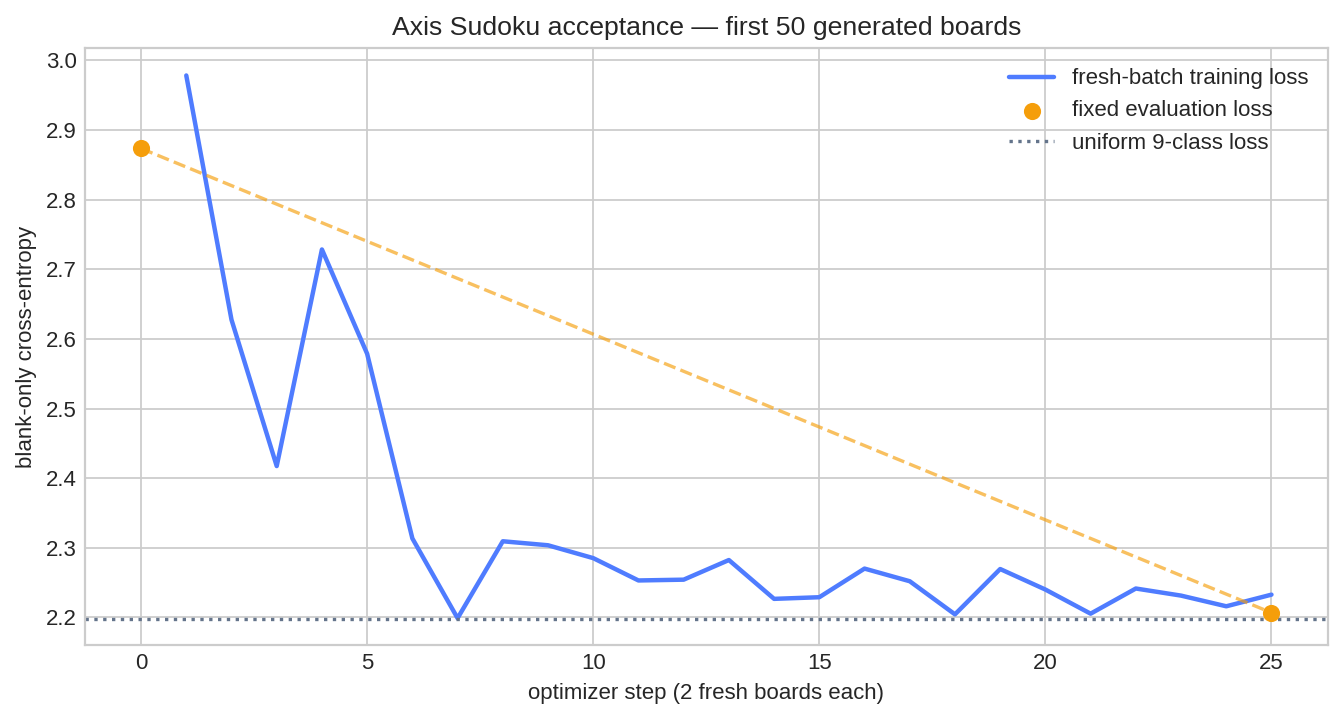
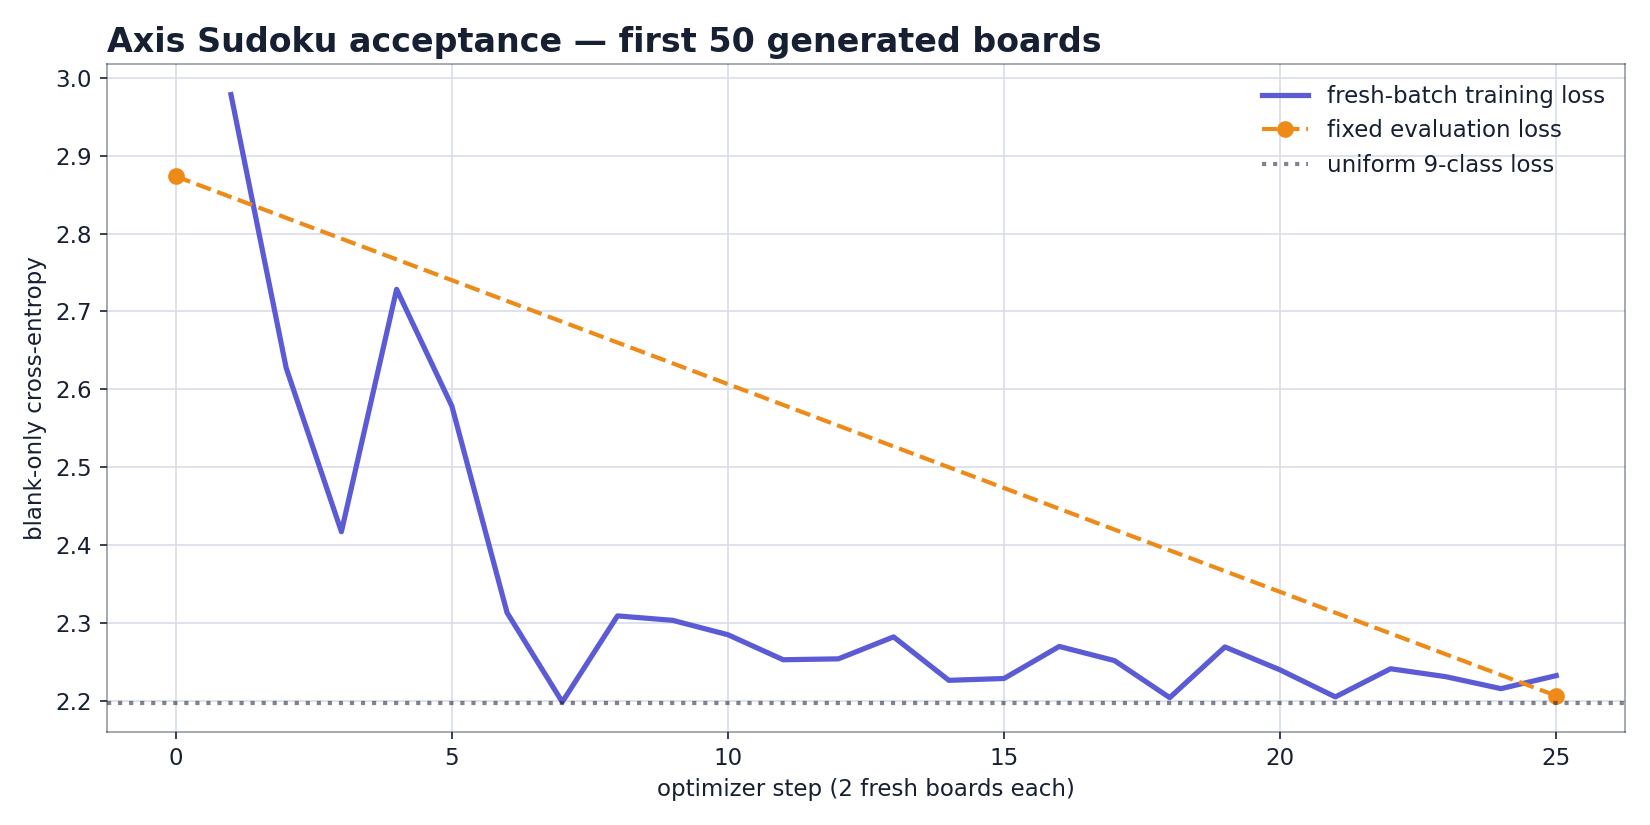
Unify the Sudoku acceptance visuals

diff --git a/scripts/render_readme.py b/scripts/render_readme.py
@@ -1,0 +1,92 @@
+#!/usr/bin/env python3
+"""Render the two measured README figures with one visual language."""
+
+from pathlib import Path
+import re
+
+import matplotlib.pyplot as plt
+
+
+ROOT = Path(__file__).resolve().parents[1]
+INK = "#172033"
+ACCENT = "#5b5bd6"
+ORANGE = "#ee8a18"
+PAPER = "#ffffff"
+GRID = "#d9ddea"
+
+BOARD = [
+    [0, 0, 3, 4, 0, 6, 7, 0, 9],
+    [0, 5, 6, 0, 8, 0, 1, 2, 0],
+    [7, 0, 0, 1, 0, 3, 4, 0, 6],
+    [0, 3, 4, 0, 0, 7, 8, 0, 1],
+    [0, 6, 0, 8, 0, 1, 2, 0, 4],
+    [0, 9, 0, 2, 0, 4, 5, 0, 7],
+    [0, 4, 5, 0, 7, 0, 9, 0, 2],
+    [0, 7, 0, 9, 1, 0, 3, 0, 5],
+    [0, 1, 2, 0, 4, 0, 6, 7, 0],
+]
+
+
+def style() -> None:
+    plt.rcParams.update(
+        {
+            "font.family": "DejaVu Sans",
+            "font.size": 11,
+            "axes.titleweight": "semibold",
+            "axes.titlecolor": INK,
+            "axes.labelcolor": INK,
+            "xtick.color": INK,
+            "ytick.color": INK,
+            "text.color": INK,
+        }
+    )
+
+
+def render_board() -> None:
+    figure, axis = plt.subplots(figsize=(8, 8), facecolor=PAPER)
+    axis.set_facecolor(PAPER)
+    for index in range(10):
+        width = 3.2 if index in (0, 9) else 2.8 if index % 3 == 0 else 0.8
+        color = ORANGE if index in (0, 9) else ACCENT if index % 3 == 0 else INK
+        axis.plot([index, index], [0, 9], color=color, linewidth=width)
+        axis.plot([0, 9], [index, index], color=color, linewidth=width)
+    for row, values in enumerate(BOARD):
+        for column, value in enumerate(values):
+            if value:
+                axis.text(column + 0.5, 8.5 - row, str(value), ha="center", va="center", fontsize=24)
+    axis.set(xlim=(-0.05, 9.05), ylim=(-0.05, 9.65), aspect="equal")
+    axis.axis("off")
+    axis.set_title("A fresh board from the Axis acceptance stream", loc="left", pad=14, fontsize=16)
+    figure.tight_layout(pad=0.8)
+    figure.savefig(ROOT / "img/axis_generated_puzzle.png", dpi=150, facecolor=PAPER)
+    plt.close(figure)
+
+
+def render_curve() -> None:
+    log = (ROOT / "models/axis_tiny_00/metrics.log").read_text()
+    train = [(int(step), float(loss)) for step, loss in re.findall(r"step=(\d+).*pre_update_loss=([0-9.]+)", log)]
+    initial = float(re.search(r"initial eval_loss=([0-9.]+)", log).group(1))
+    final = float(re.search(r"final eval_loss=([0-9.]+)", log).group(1))
+
+    figure, axis = plt.subplots(figsize=(11, 5.5), facecolor=PAPER)
+    axis.set_facecolor(PAPER)
+    axis.plot([step for step, _ in train], [loss for _, loss in train], color=ACCENT, linewidth=2.5, label="fresh-batch training loss")
+    axis.plot([0, train[-1][0]], [initial, final], color=ORANGE, linestyle="--", linewidth=2, marker="o", markersize=7, label="fixed evaluation loss")
+    axis.axhline(2.197225, color=INK, alpha=0.55, linestyle=":", linewidth=2, label="uniform 9-class loss")
+    axis.grid(color=GRID, linewidth=0.8)
+    for spine in axis.spines.values():
+        spine.set_color(INK)
+        spine.set_alpha(0.45)
+    axis.set_title("Axis Sudoku acceptance — first 50 generated boards", loc="left", fontsize=16)
+    axis.set_xlabel("optimizer step (2 fresh boards each)")
+    axis.set_ylabel("blank-only cross-entropy")
+    axis.legend(frameon=False)
+    figure.tight_layout()
+    figure.savefig(ROOT / "img/axis_acceptance_25.png", dpi=150, facecolor=PAPER)
+    plt.close(figure)
+
+
+if __name__ == "__main__":
+    style()
+    render_board()
+    render_curve()

diff --git a/README.md b/README.md
@@ -141,6 +141,7 @@ sudoku-transformer/
 │   ├── setup_cuda.py        verified local CUDA 13.2 install
 │   ├── cargo.sh             reproducible Cargo/CUDA launcher
 │   ├── train.sh             training entry point
+│   ├── render_readme.py     reproducible measured README figures
 │   └── check.sh             format, lint, tests, GPU smoke
 ├── Cargo.toml               Axis pinned by exact Git revision
 └── Cargo.lock
